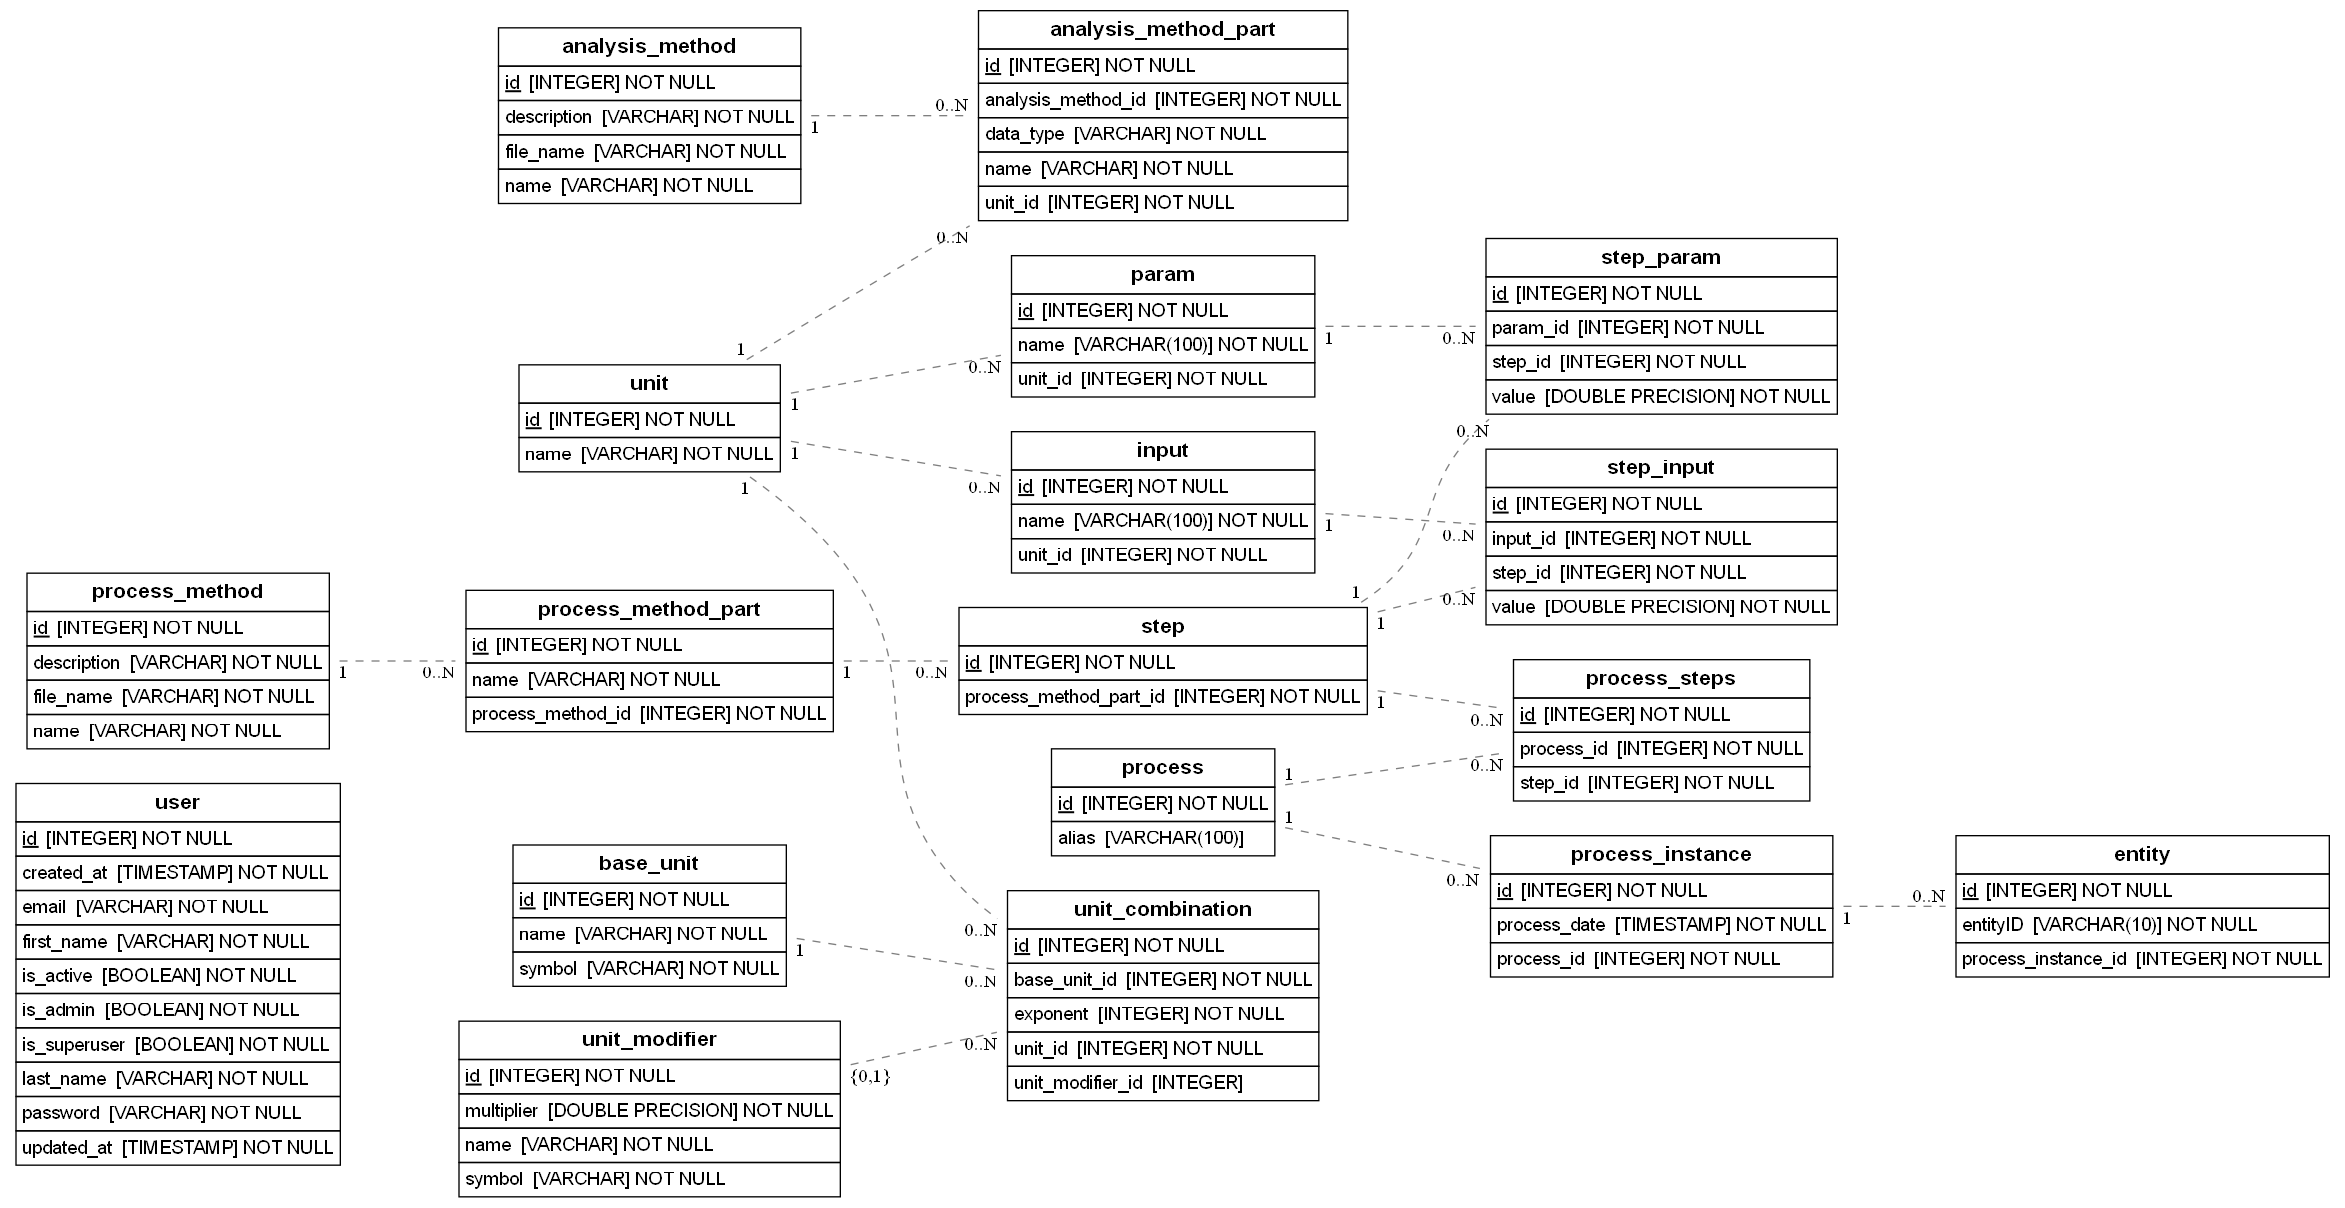
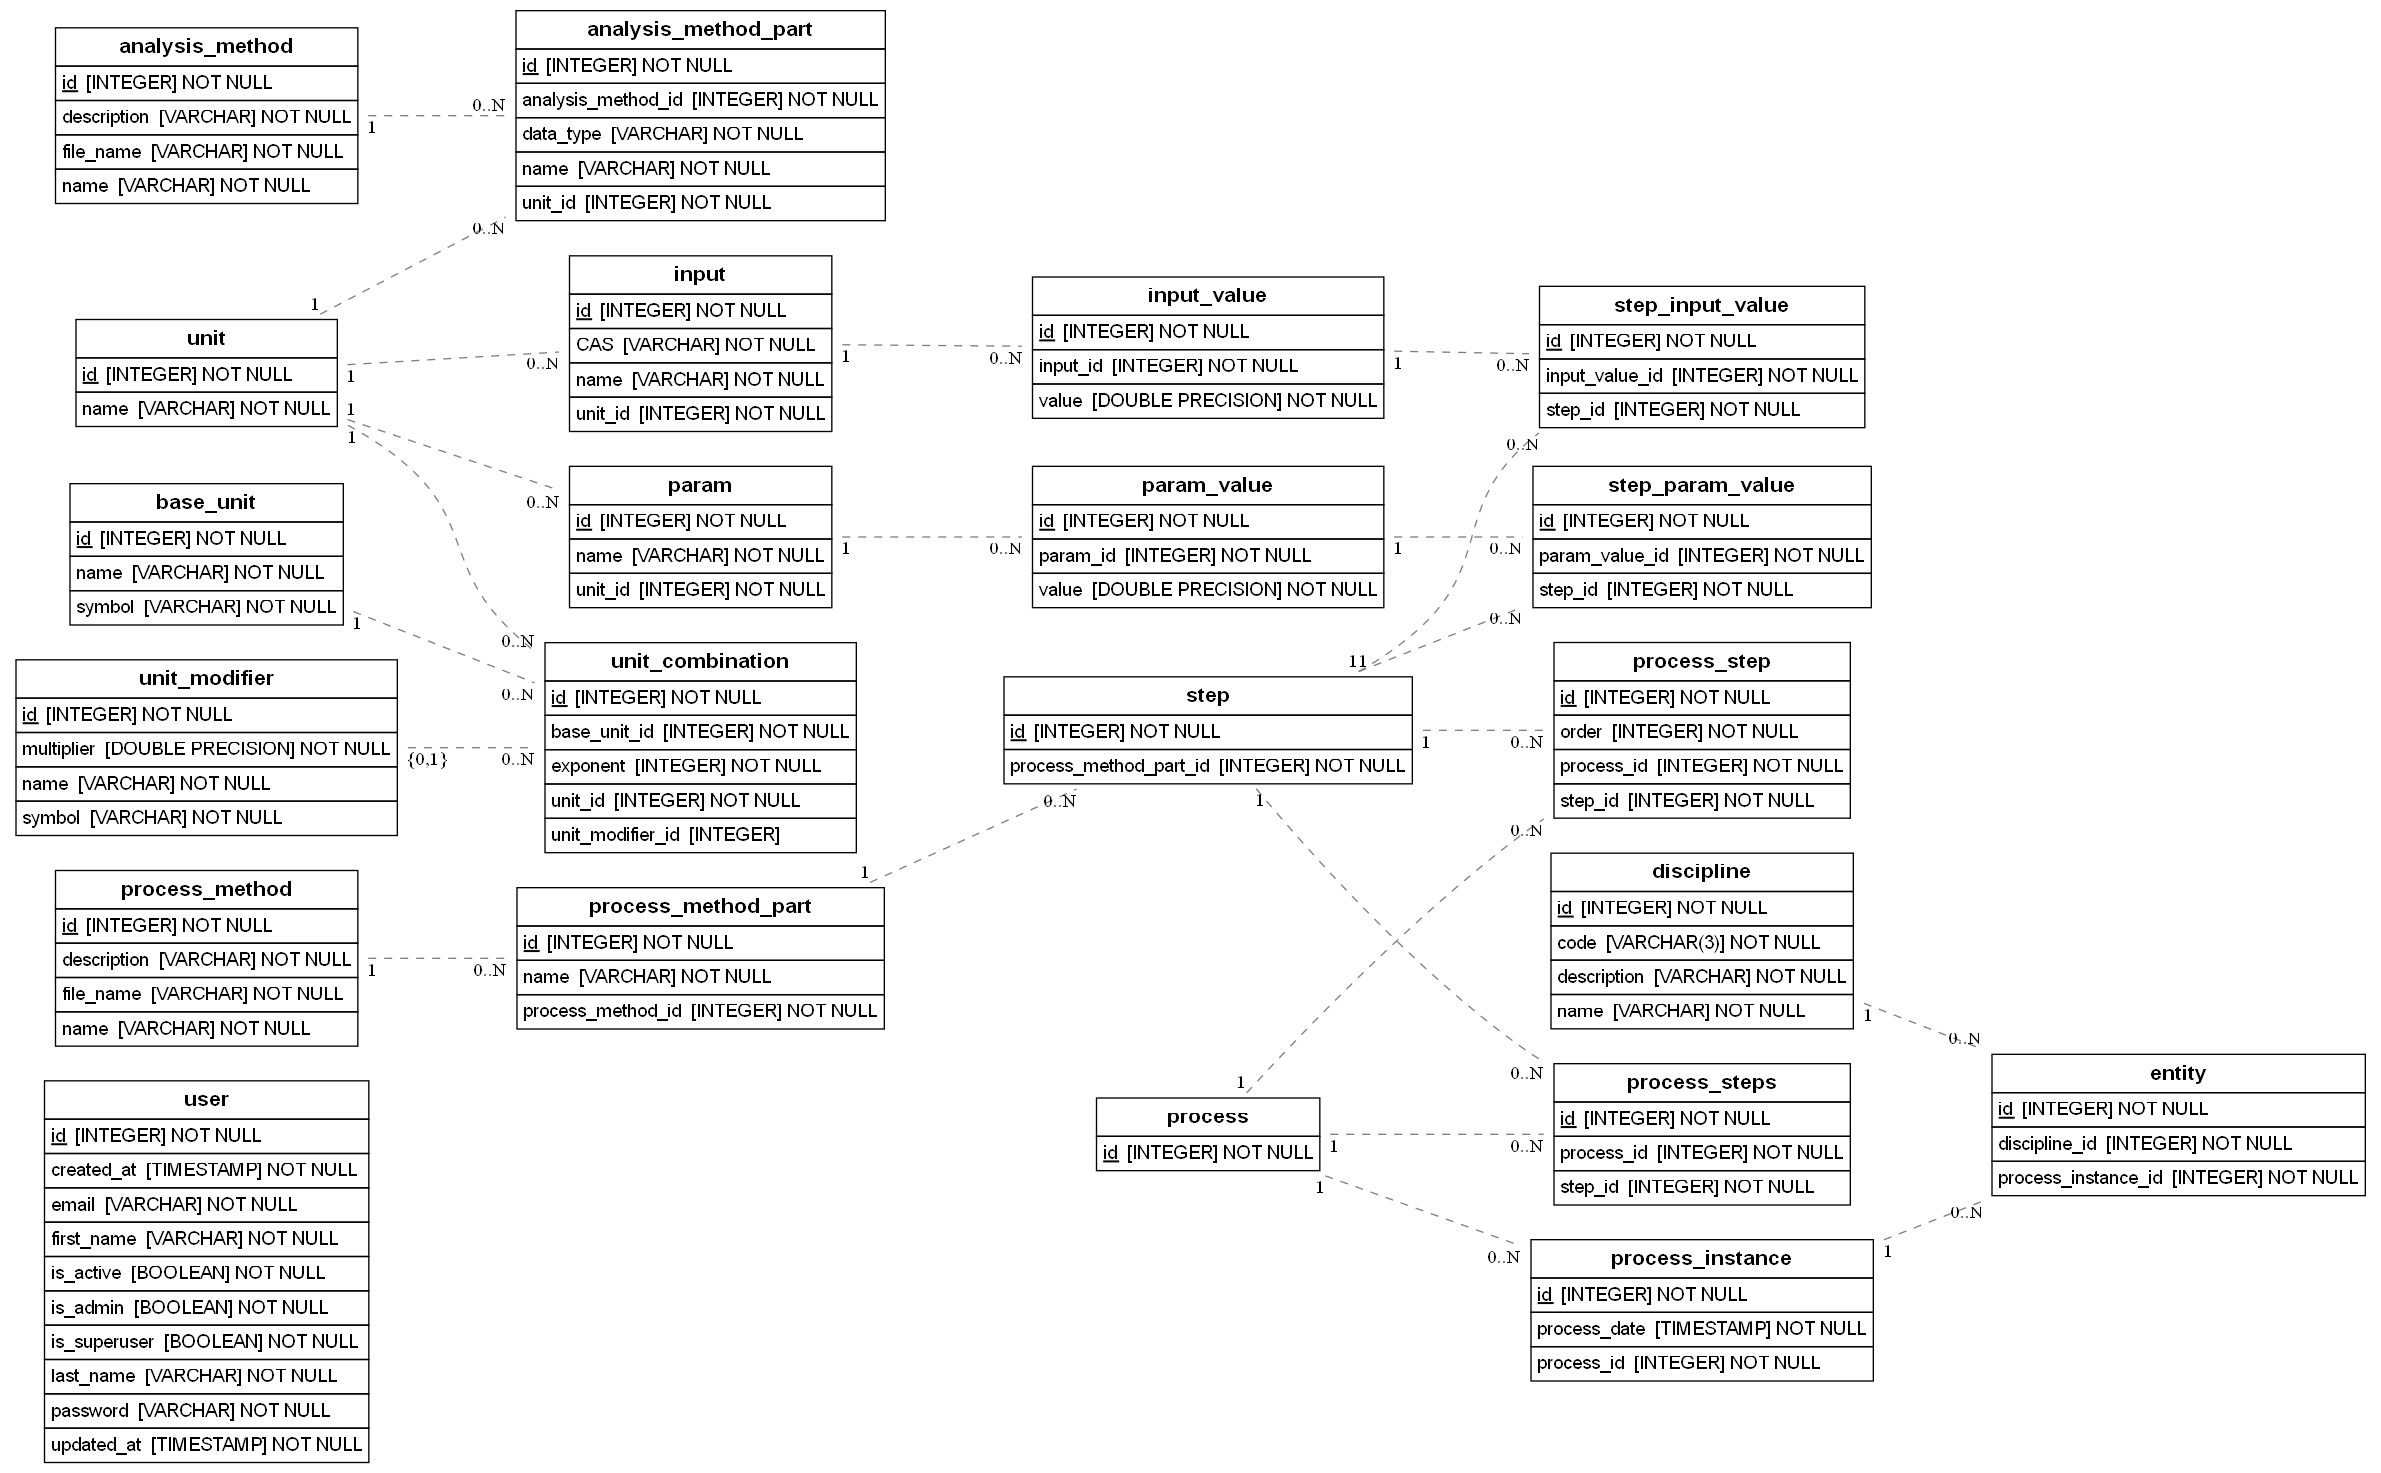
all tables setup for database

diff --git a/process_navigator/models/process.py b/process_navigator/models/process.py
@@ -2,69 +2,194 @@
 
 from typing import List
 
+from sqlalchemy import DateTime, ForeignKey, UniqueConstraint
 from sqlalchemy.orm import Mapped, mapped_column, relationship
+from sqlalchemy.types import String
+from sqlalchemy.ext.hybrid import hybrid_property
+
 
 from process_navigator.extensions.database import Base, db
 
 
 # Define the models for the database
 # an Entity represents a physical object that can be isolated and analysed. This is up to some interpretation by the user
-class Entity(db.Model):
-    id = db.Column(db.Integer, primary_key=True)
-    entityID = db.Column(db.String(10), nullable=False)
-    process_instance_id = db.Column(
-        db.Integer, db.ForeignKey("process_instance.id"), nullable=False
+class Entity(Base):
+    __tablename__ = "entity"
+    id: Mapped[int] = mapped_column(primary_key=True, init=False)
+
+    process_instance_id: Mapped[int] = mapped_column(
+        db.ForeignKey("process_instance.id"), nullable=False
     )
-    process_instance = db.relationship(
-        "ProcessInstance", backref=db.backref("entities", lazy=True)
+    discipline_id: Mapped[int] = mapped_column(
+        db.ForeignKey("discipline.id"), nullable=False
+    )
+
+    user_id: Mapped[int] = mapped_column(db.ForeignKey("user.id"), nullable=False)
+    process_instance: Mapped["ProcessInstance"] = relationship(
+        "ProcessInstance", back_populates="entities"
+    )
+    discipline: Mapped["Discipline"] = relationship(
+        "Discipline", back_populates="entities"
+    )
+
+    user: Mapped["User"] = relationship("User", back_populates="entities")
+
+    @hybrid_property
+    def entity_id(self):
+        entity_id = "{discipline_code}-{id}".format(
+            discipline_code=self.discipline.code, id=str(self.id).zfill(6)
+        )
+        return entity_id
+
+    def __repr__(self):
+        return f"<Entity {self.entity_id}>"
+
+
+class Discipline(Base):
+    __tablename__ = "discipline"
+    id: Mapped[int] = mapped_column(primary_key=True, init=False)
+    code: Mapped[str] = mapped_column(String(3), nullable=False)
+    name: Mapped[str] = mapped_column(nullable=False)
+    description: Mapped[str] = mapped_column(nullable=False)
+
+    entities: Mapped[List["Entity"]] = relationship(
+        "Entity", back_populates="discipline", init=False
     )
 
     def __repr__(self):
-        return f"<Entity {self.entityID}>"
+        return f"<Discipline {self.name} ({self.code})>"
 
 
-# each Entity is descibed by a single Process instance. A Process Instance can link to multiple entities, this providing 'sibling' Entities
-class ProcessInstance(db.Model):
-    id = db.Column(db.Integer, primary_key=True)
-    process_id = db.Column(db.Integer, db.ForeignKey("process.id"), nullable=False)
-    process = db.relationship(
-        "Process", backref=db.backref("process_instances", lazy=True)
+class InputValue(Base):
+    __tablename__ = "input_value"
+    id: Mapped[int] = mapped_column(primary_key=True, init=False)
+    input_id: Mapped[int] = mapped_column(db.ForeignKey("input.id"), nullable=False)
+    value: Mapped[float] = mapped_column(nullable=False)
+    input: Mapped["Input"] = relationship(
+        "Input", back_populates="input_values", init=False
     )
-    process_date = db.Column(db.DateTime, nullable=False)
-
-
-# A Process describes a process, broken up into a minimum of 1 step. A Process can be considered a recipie, this recipie is instanced for each time a Process is run. Technically we could run a Process without Entities.
-class Process(db.Model):
-    id = db.Column(db.Integer, primary_key=True)
-    alias = db.Column(db.String(100), nullable=True)
-
-
-# each Step describes a way to combine Inputs, Parameters and Method Parts including any quantities associated. Each Step is unique thus any unique combination of Inputs, Parameters and Method Parts will be a new Step
-class Step(db.Model):
-    id = db.Column(db.Integer, primary_key=True)
-    process_method_part_id = db.Column(
-        db.Integer, db.ForeignKey("process_method_part.id"), nullable=False
+    step_input_values: Mapped[List["StepInputValue"]] = relationship(
+        "StepInputValue", back_populates="input_value", init=False
     )
-    process_method_part = db.relationship(
-        "ProcessMethodPart", backref=db.backref("step", lazy=True)
+
+    def __repr__(self):
+        return f"<Input Value {self.value}>"
+
+
+class ParamValue(Base):
+    __tablename__ = "param_value"
+    id: Mapped[int] = mapped_column(primary_key=True, init=False)
+    param_id: Mapped[int] = mapped_column(db.ForeignKey("param.id"), nullable=False)
+    value: Mapped[float] = mapped_column(nullable=False)
+    param: Mapped["Param"] = relationship(
+        "Param", back_populates="param_values", init=False
+    )
+    step_param_values: Mapped[List["StepParamValue"]] = relationship(
+        "StepParamValue", back_populates="param_value", init=False
+    )
+
+    def __repr__(self):
+        return f"<Param Value {self.value}>"
+
+
+class StepInputValue(Base):
+    __tablename__ = "step_input_value"
+    id: Mapped[int] = mapped_column(primary_key=True, init=False)
+    step_id: Mapped[int] = mapped_column(ForeignKey("step.id"), nullable=False)
+    input_value_id: Mapped[int] = mapped_column(
+        ForeignKey("input_value.id"), nullable=False
+    )
+    input_value: Mapped["InputValue"] = relationship(
+        "InputValue", back_populates="step_input_values"
+    )
+    step: Mapped["Step"] = relationship("Step", back_populates="step_input_values")
+
+    def __repr__(self):
+        return f"<Step Input Value {self.id}>"
+
+
+class StepParamValue(Base):
+    __tablename__ = "step_param_value"
+    id: Mapped[int] = mapped_column(primary_key=True, init=False)
+    step_id: Mapped[int] = mapped_column(ForeignKey("step.id"), nullable=False)
+    param_value_id: Mapped[int] = mapped_column(
+        ForeignKey("param_value.id"), nullable=False
+    )
+    param_value: Mapped["ParamValue"] = relationship(
+        "ParamValue", back_populates="step_param_values"
+    )
+    step: Mapped["Step"] = relationship("Step", back_populates="step_param_values")
+
+    def __repr__(self):
+        return f"<Step Param Value {self.id}>"
+
+
+"""
+Each Step is unique combination of InputValue, ParamValues and ProcessMethodParts. Therefore each step can be reused.
+"""
+
+
+class Step(Base):
+    __tablename__ = "step"
+    id: Mapped[int] = mapped_column(primary_key=True, init=False)
+    process_method_part_id: Mapped[int] = mapped_column(
+        ForeignKey("process_method_part.id"), nullable=False
+    )
+    process_method_part: Mapped["ProcessMethodPart"] = relationship(
+        "ProcessMethodPart", back_populates="steps"
+    )
+
+    step_input_values: Mapped[List["StepInputValue"]] = relationship(
+        "StepInputValue", back_populates="step"
+    )
+    step_param_values: Mapped[List["StepParamValue"]] = relationship(
+        "StepParamValue", back_populates="step"
+    )
+
+    process_steps: Mapped[List["ProcessStep"]] = relationship(
+        "ProcessStep", back_populates="step", init=False
     )
 
     def __repr__(self):
         return f"<Step {self.id}>"
 
 
-# Linking Process containers to Process Steps.
-# This is a many to many relationship as a Process
-# can have many Steps and a Step can be used in many Processes
-class ProcessSteps(db.Model):
-    id = db.Column(db.Integer, primary_key=True)
-    process_id = db.Column(db.Integer, db.ForeignKey("process.id"), nullable=False)
-    process = db.relationship("Process", backref=db.backref("process_steps", lazy=True))
-    step_id = db.Column(db.Integer, db.ForeignKey("step.id"), nullable=False)
-    step = db.relationship("Step", backref=db.backref("process_steps", lazy=True))
+# each Entity is descibed by a single Process instance. A Process Instance can link to multiple entities, this providing 'sibling' Entities
+class ProcessInstance(Base):
+    __tablename__ = "process_instance"
+    id: Mapped[int] = mapped_column(primary_key=True, init=False)
+    process_id: Mapped[int] = mapped_column(ForeignKey("process.id"), nullable=False)
+    process_date: Mapped[str] = mapped_column(DateTime, nullable=False)
 
-    def __repr__(self):
-        return f"<Process Steps {self.id}>"
+    entities: Mapped[List["Entity"]] = relationship(
+        "Entity", back_populates="process_instance", init=False
+    )
+
+
+# A Process describes a process, broken up into a minimum of 1 step. A Process can be considered a recipie, this recipie is instanced for each time a Process is run. Technically we could run a Process without Entities.
+class Process(Base):
+    __tablename__ = "process"
+    id: Mapped[int] = mapped_column(primary_key=True, init=False)
+
+    process_steps: Mapped[List["ProcessStep"]] = relationship(
+        "ProcessStep", back_populates="process"
+    )
+
+
+class ProcessStep(Base):
+    __tablename__ = "process_step"
+    id: Mapped[int] = mapped_column(primary_key=True, init=False)
+    process_id: Mapped[int] = mapped_column(ForeignKey("process.id"), nullable=False)
+    step_id: Mapped[int] = mapped_column(ForeignKey("step.id"), nullable=False)
+    order: Mapped[int] = mapped_column(nullable=False)
+    process: Mapped["Process"] = relationship("Process", back_populates="process_steps")
+    step: Mapped["Step"] = relationship("Step", back_populates="process_steps")
+
+    __table_args__ = (
+        UniqueConstraint(
+            "process_id", "order", "step_id", name="unique_process_step_order"
+        ),
+    )
 
 
 # Method describe how a Process is carried out,
@@ -99,30 +224,9 @@ class ProcessMethodPart(Base):
     process_method: Mapped["ProcessMethod"] = relationship(
         back_populates="process_method_parts"
     )
+    steps: Mapped[List["Step"]] = relationship(
+        "Step", back_populates="process_method_part", init=False
+    )
 
     def __repr__(self):
         return f"<Process Method Part {self.name}>"
-
-
-class StepInput(db.Model):
-    id = db.Column(db.Integer, primary_key=True)
-    step_id = db.Column(db.Integer, db.ForeignKey("step.id"), nullable=False)
-    step = db.relationship("Step", backref=db.backref("step_input", lazy=True))
-    input_id = db.Column(db.Integer, db.ForeignKey("input.id"), nullable=False)
-    input = db.relationship("Input", backref=db.backref("step_input", lazy=True))
-    value = db.Column(db.Float, nullable=False)
-
-    def __repr__(self):
-        return f"<StepInput {self.id}>"
-
-
-class StepParam(db.Model):
-    id = db.Column(db.Integer, primary_key=True)
-    step_id = db.Column(db.Integer, db.ForeignKey("step.id"), nullable=False)
-    step = db.relationship("Step", backref=db.backref("step_param", lazy=True))
-    param_id = db.Column(db.Integer, db.ForeignKey("param.id"), nullable=False)
-    param = db.relationship("Param", backref=db.backref("step_param", lazy=True))
-    value = db.Column(db.Float, nullable=False)
-
-    def __repr__(self):
-        return f"<StepParam {self.id}>"

diff --git a/process_navigator/models/inputs.py b/process_navigator/models/inputs.py
@@ -1,5 +1,7 @@
 from sqlalchemy import ForeignKey
 from sqlalchemy.orm import Mapped, mapped_column, relationship
+from sqlalchemy.types import String
+from typing import List
 
 from process_navigator.extensions.database import Base
 
@@ -7,11 +9,14 @@ from process_navigator.extensions.database import Base
 class Input(Base):
     __tablename__ = "input"
     id: Mapped[int] = mapped_column(primary_key=True, init=False)
-    name: Mapped[str] = mapped_column(nullable=False, unique=True)
+    name: Mapped[str] = mapped_column(String, nullable=False, unique=True)
     CAS: Mapped[str] = mapped_column(nullable=False, unique=True)
     unit_id: Mapped[int] = mapped_column(ForeignKey("unit.id"), nullable=False)
 
     unit: Mapped["Unit"] = relationship("Unit", back_populates="inputs")
+    input_values: Mapped[List["InputValue"]] = relationship(
+        "InputValue", back_populates="input"
+    )
 
     def __repr__(self):
         return "Parameter {name} ({symbol})".format(

diff --git a/process_navigator/models/parameters.py b/process_navigator/models/parameters.py
@@ -1,6 +1,6 @@
 from sqlalchemy import ForeignKey
 from sqlalchemy.orm import Mapped, mapped_column, relationship
-
+from typing import List
 from process_navigator.extensions.database import Base
 
 
@@ -11,6 +11,10 @@ class Param(Base):
     unit_id: Mapped[int] = mapped_column(ForeignKey("unit.id"), nullable=False)
 
     unit: Mapped["Unit"] = relationship("Unit", back_populates="parameters")
+
+    param_values: Mapped[List["ParamValue"]] = relationship(
+        "ParamValue", back_populates="param"
+    )
 
     def __repr__(self):
         return "Parameter {name} ({symbol})".format(
